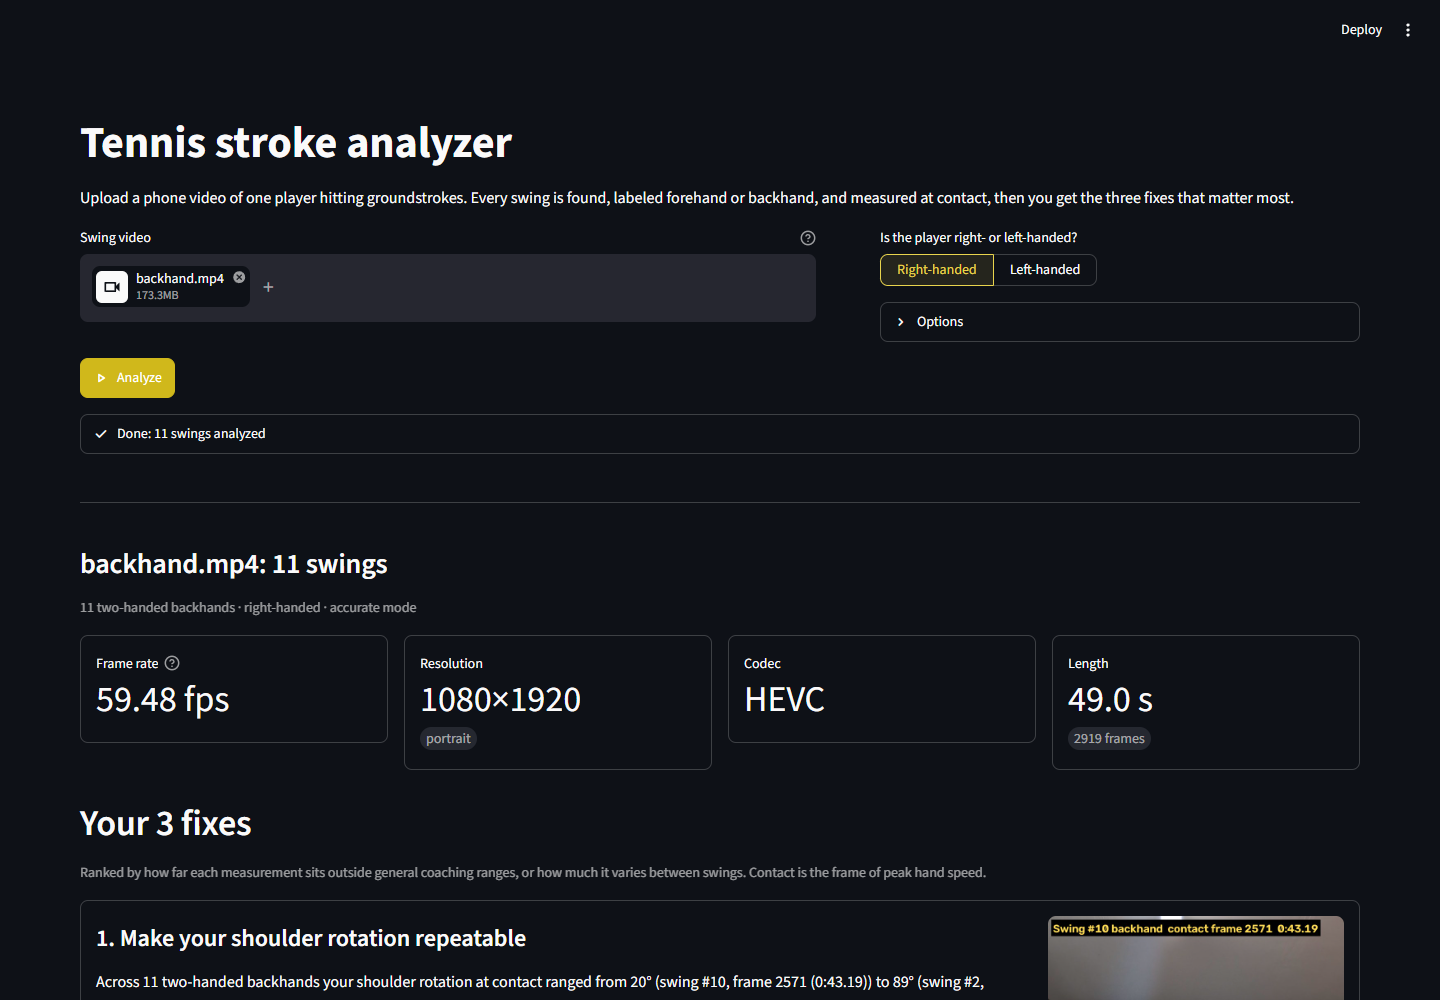
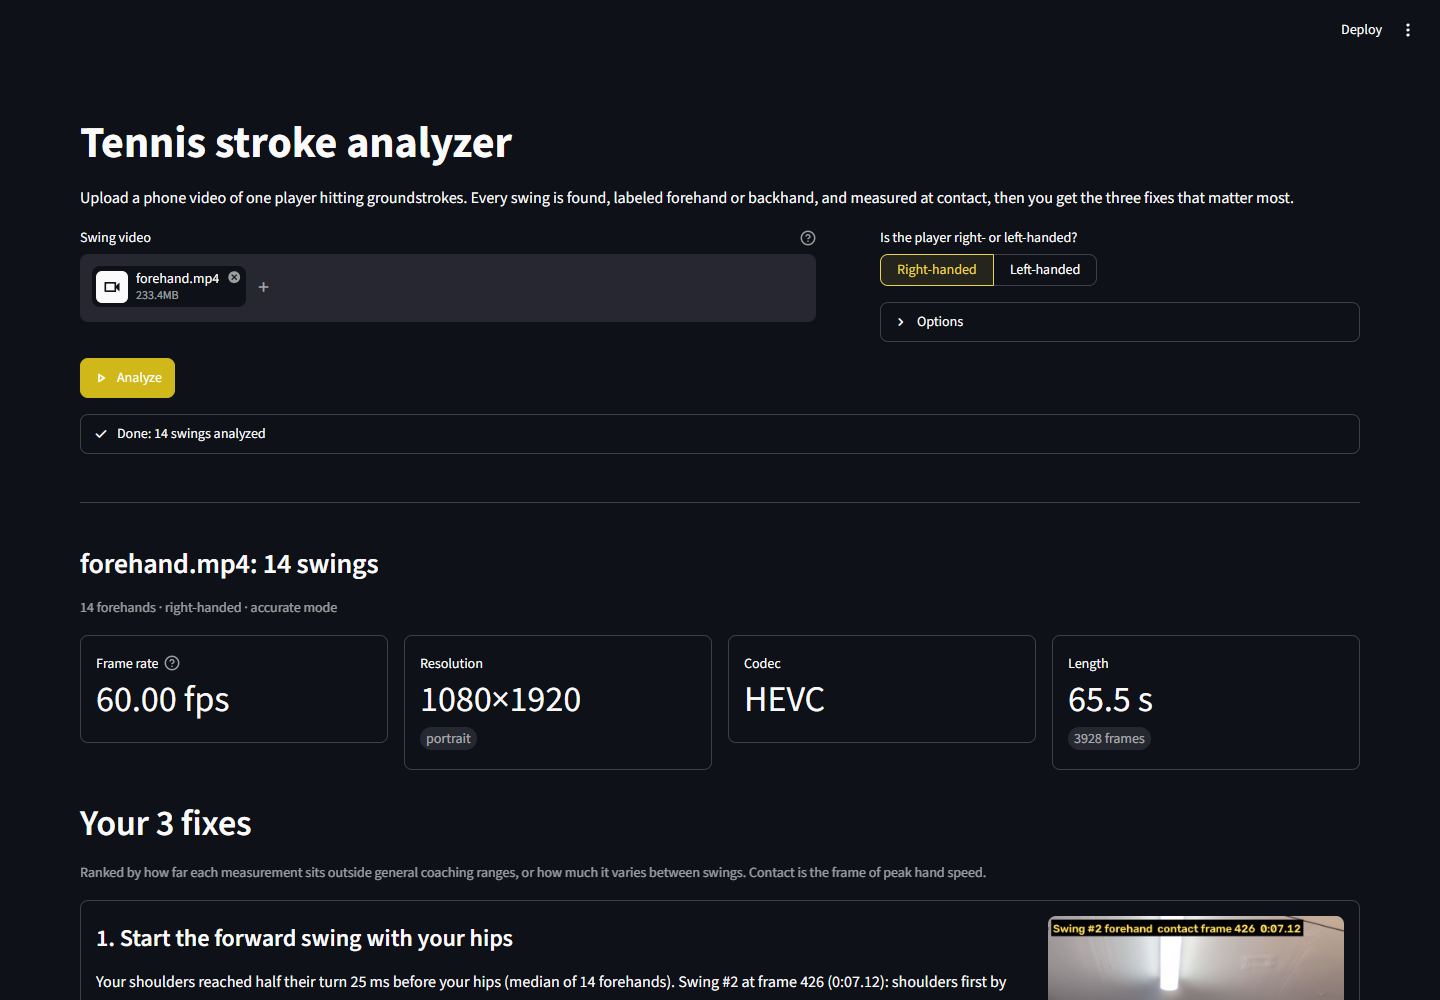
Prepare for public release: README, broader .gitignore, screenshots of owner's own clip only
- .gitignore: samples/, out/, tmp/, models/, .venv/ and all common video extensions
- docs/screenshots: fresh capture from the owner's forehand sample (no teammates)
- README: pitch, screenshot, what it does, how it works, how to run, limitations (incl. false swings), next steps

diff --git a/README.md b/README.md
@@ -1,0 +1,132 @@
+# Tennis Stroke Analyzer
+
+**Upload a phone video of your groundstrokes. Get every swing measured at contact and the three fixes that matter most, each backed by a number and a frame you can check.**
+
+![Results for a 65-second forehand session: 14 swings found, frame rate read from the video, and the top 3 fixes with the contact frame each one cites](docs/screenshots/02_results_top.png)
+
+<sub>[Full results page](docs/screenshots/03_results_full.png): fixes, a side-by-side against your best swing, the annotated video, and a table of every swing.</sub>
+
+## What it does
+
+- **Finds every swing** in a clip of one player hitting forehands and backhands. So far it has been built and tested on shadow swings (no ball).
+- **Labels each swing** as a forehand or backhand, and one-handed or two-handed.
+- **Measures each swing at contact:**
+  - elbow angle
+  - knee bend
+  - shoulder and hip rotation
+  - how far in front of the body the hand is
+  - whether the hips or the shoulders start the forward swing
+- **Gives exactly three fixes per session.** Each one cites the measured value, the swing number, and the frame and timestamp it came from. Nothing is a canned tip.
+- **Shows a side-by-side** of one of your swings next to a reference swing, synced so both hit contact at the same moment. The reference is your own best swing, or a coach or pro clip you upload.
+- **Draws the skeleton** on the whole video, with a frame counter so you can check every cited frame.
+- **Reads phone video as it is:**
+  - iPhone HEVC and portrait clips
+  - frame rates tested at 30, 60 and 120 fps; higher rates also work, and timing always comes from each frame's real timestamp
+  - every video shown in the app is H.264, so it plays in any browser
+
+## How it works
+
+1. **Read the video.** PyAV decodes the clip, including iPhone HEVC, and turns portrait videos upright. Each frame's real timestamp is kept, so phones with uneven frame timing still give correct speeds.
+2. **Track the body.** MediaPipe Pose finds 33 body points on every frame. Points the model isn't confident about are thrown away, never guessed. That matters on a busy court or in a cluttered garage.
+3. **Find the swings.** The fastest moments of the hitting hand are the swings. The frame of peak hand speed is treated as contact, since shadow swings have no ball.
+4. **Measure precisely around contact.**
+   - A fast, light model scans the whole clip.
+   - A slower, more accurate model then re-tracks about one second around each contact.
+   - Angles come from MediaPipe's 3D estimate of the body, so they don't depend much on where the camera stood.
+5. **Coach.** Each measurement is compared with general coaching ranges, which you can edit in [`tennis_analyzer/targets.py`](tennis_analyzer/targets.py). The analyzer also checks how much each one varies from swing to swing. The three biggest, distinct problems become the fixes.
+6. **Say what it couldn't measure.** If a joint was hidden or the tracking glitched, that measurement reads "not measured", with the reason. The analyzer never shows a made-up number.
+
+## Run it
+
+You need Python 3.11 (the version pinned and tested here) and an internet connection the first time, to download the pose models (about 36 MB, plus 9 MB more if you use fast mode). It's tested on Windows 11. macOS on Apple Silicon and Linux should work with the same steps; MediaPipe has no wheel for Intel Macs.
+
+**Windows (PowerShell)**
+
+```powershell
+git clone <this-repo-url> tennis-analyzer
+cd tennis-analyzer
+py -3.11 -m venv .venv
+.venv\Scripts\python -m pip install -r requirements.txt
+.venv\Scripts\python -m streamlit run app.py
+```
+
+**macOS / Linux** (untested)
+
+```bash
+python3.11 -m venv .venv
+.venv/bin/python -m pip install -r requirements.txt
+.venv/bin/python -m streamlit run app.py
+```
+
+Then open http://localhost:8501. Upload a clip, choose right- or left-handed, and press **Analyze**. A one-minute 60 fps clip takes about three minutes on a laptop CPU the first time. The pose results are cached, so later runs on the same clip are much faster.
+
+**Command line.** The app is a thin layer over the CLI, which does the same analysis:
+
+```powershell
+.venv\Scripts\python analyze.py path\to\clip.mov --hand right
+.venv\Scripts\python analyze.py path\to\folder --hand left --no-video   # every clip in a folder, numbers only
+.venv\Scripts\python analyze.py clip.mov --hand right --reference pro.mp4 --reference-hand right
+```
+
+Results go to `out/<clip>/`:
+- `report.json`
+- `annotated.mp4`
+- `contacts/swing_NN.jpg`
+- the side-by-side video
+
+**Tests:**
+
+```powershell
+.venv\Scripts\python -m pip install -r requirements-dev.txt
+.venv\Scripts\python -m pytest -q
+```
+
+### Filming tips
+
+- Film from the side, at about hip height, with the whole body in frame.
+- Shoot at 60 fps or higher.
+- Keep the phone still: use a tripod, or lean it against the fence.
+- Keep one player in the shot.
+
+## Known limitations
+
+- **False swings from walking, camera movement or fidgeting.**
+  - Swing detection uses hand speed in the picture, so the player walking around or the camera panning can count as a swing.
+  - A clip that starts with the player getting into position may show a few extra "swings". They are often labeled with the wrong stroke, and they can skew the fixes.
+  - Workaround: trim the clip to the hitting, and keep the camera still.
+- **Face-on clips can lose rotation.**
+  - When the player turns their back to the camera, the pose model sometimes swaps the body's left and right sides.
+  - The analyzer detects this and marks shoulder/hip rotation "not measured" rather than reporting an impossible number. A face-on session may therefore get fewer than three fixes.
+  - Filming from the side avoids it.
+- **Contact is estimated.** It's the frame of peak hand speed, which in a real stroke comes slightly before ball impact.
+  - "Contact in front" is sensitive to that exact frame. At 5 m/s, one frame is about 8 cm at 60 fps and about 16 cm at 30 fps, so prefer 60 fps or higher.
+- **Single-swing values are noisy.** Rotation and timing come from a single camera's 3D estimate, so one swing's number can shift by a few degrees or tens of milliseconds. The session medians the fixes are built on are much steadier.
+- **Coaching ranges are generic.** They're broad groundstroke guidelines, not tuned to a player's level or style.
+- **Slow-motion exports** that are stored at a lower playback rate than they were filmed at aren't time-corrected yet.
+
+## What's next
+
+- **Fix the false swings:** measure hand speed relative to the hips, so walking and camera pans cancel out.
+- **Handle slow-motion exports:** use the phone's capture-frame-rate tag to correct their timing.
+- **Track the ball:** find the real contact frame when a ball is present, instead of using peak hand speed.
+- **Bundle reference swings:** ship a small library of coach-approved forehands and backhands to compare against.
+- **Track progress:** compare sessions over time and show whether a fix is sticking.
+
+## Project layout
+
+```
+app.py                     Streamlit UI (only calls the package)
+analyze.py                 Command-line interface
+tennis_analyzer/
+  video_io.py              Decoding, rotation, timestamps, H.264 writing (PyAV)
+  pose.py                  MediaPipe Tasks PoseLandmarker, model download, cache
+  kinematics.py            Confidence masking, glitch removal, smoothing, angles
+  swings.py                Swing detection, forehand/backhand, grip, facing direction
+  metrics.py               Contact measurements
+  coaching.py, targets.py  Reference choice, the 3 fixes, guideline ranges
+  outputs.py, render.py    Annotated video, contact stills, side-by-side
+scripts/screenshot_ui.py   Playwright: upload a clip, screenshot, check videos play
+tests/                     Unit tests
+```
+
+Built with [MediaPipe](https://ai.google.dev/edge/mediapipe), [PyAV](https://pyav.basswood-io.com/), [OpenCV](https://opencv.org/) and [Streamlit](https://streamlit.io/). The PyAV wheels bundle FFmpeg with libx264, which is GPL-licensed.

diff --git a/NEXT_STEPS.md b/NEXT_STEPS.md
@@ -154,6 +154,25 @@ _Resume point for the tennis stroke analyzer. Update after every major step._
      - **Headings and counts:** "Your N fix(es)", "N swing(s)" and "Top N fix(es)" use the right singular or plural.
      - New tests: `test_one_measured_swing_has_no_median_wording` and `test_hip_lead_spread_reads_plainly`. 29 pass.
 
+## Public-repo prep (2026-11-05)
+- **`.gitignore`** now covers `samples/`, `out/`, `tmp/`, `models/` and `.venv/`, plus every common video extension anywhere in the repo.
+- **History check:**
+  - No video file was ever committed.
+  - No local paths or personal emails appear; commits use the GitHub noreply address.
+- **Screenshots of a teammate removed from history.**
+  - The final-check commit had screenshots of a teammate's clip (teammate1_bh.mov). That commit was rebuilt without them, and the reflog was expired and gc'd.
+  - Those three image objects are confirmed gone from the repository.
+  - `docs/screenshots/` now shows only the owner's own forehand sample (fresh capture, current code). An older commit (4eb47a3) still has screenshots of the owner's own backhand sample.
+- **README.md written:**
+  - pitch and screenshot
+  - what it does
+  - how it works, in plain English
+  - how to run it
+  - filming tips
+  - known limitations, including false swings
+  - what's next
+- **Before pushing:** choose a LICENSE. None is included yet.
+
 ## Final check (2026-11-05, after steps 1–7)
 - **Full CLI with rendering on all 6 clips:** exit 0, 3m45s. Every output is h264 High, yuv420p, faststart, with true durations.
 - **Tests:** 29 pass.
